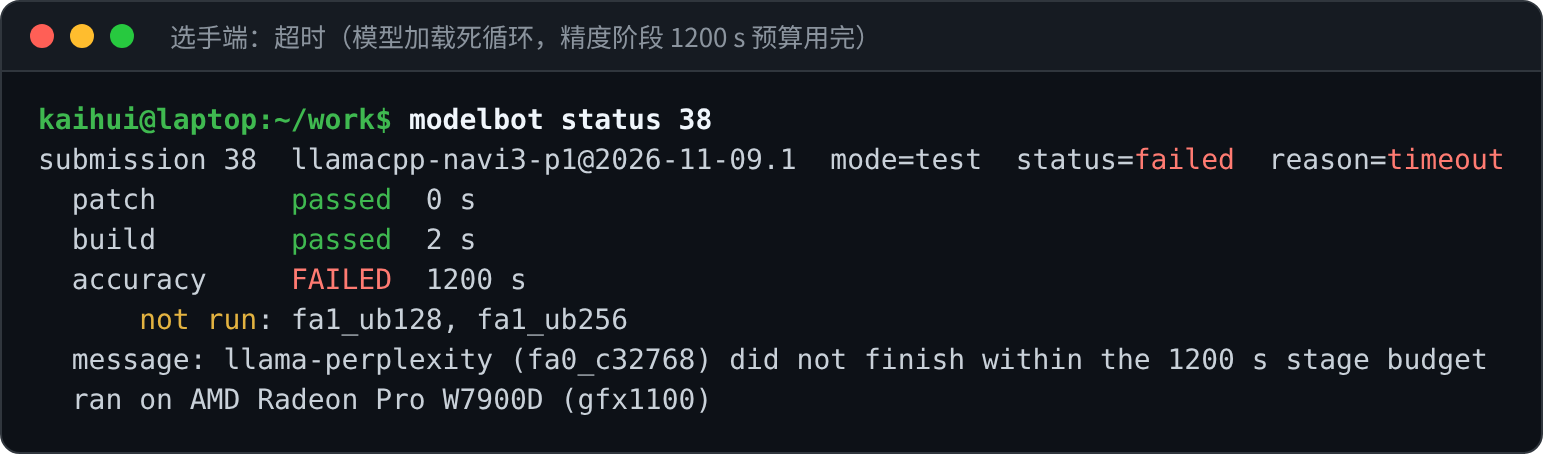
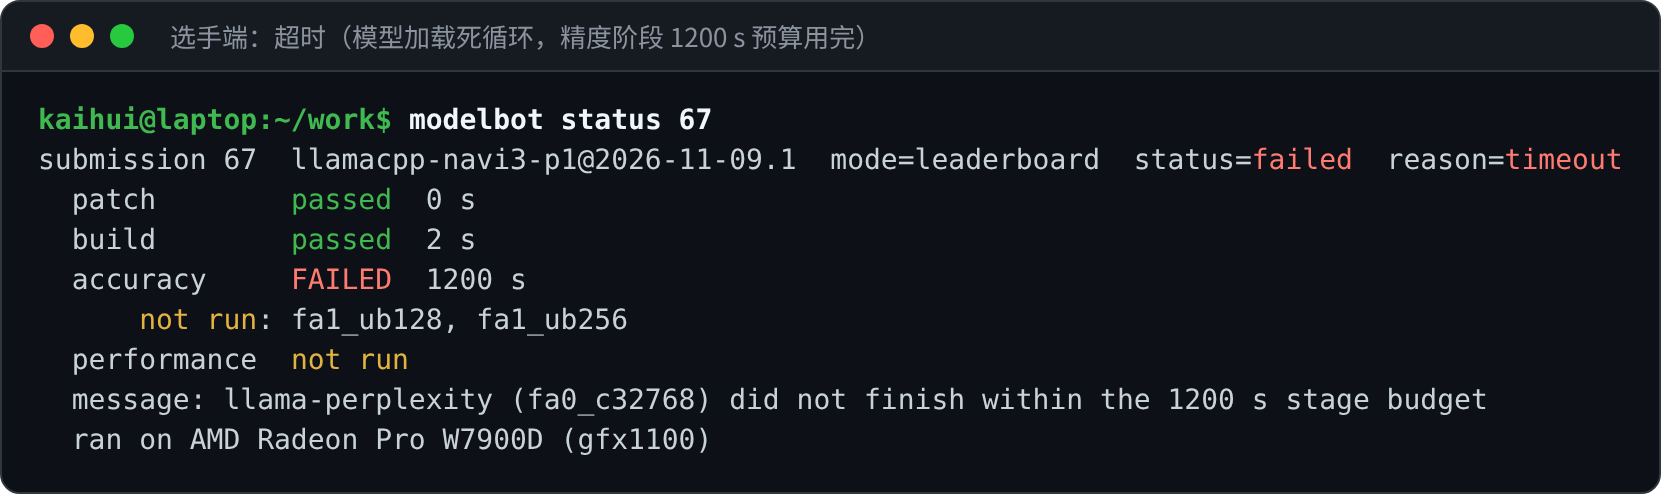
modelbot-cli 0.3.0

diff --git a/modelbot_cli/main.py b/modelbot_cli/main.py
@@ -4,7 +4,7 @@
   modelbot reregister github [--api URL] [--no-browser]
   modelbot whoami
   modelbot problems [NAME]
-  modelbot submit PATCH --problem NAME [--mode test|leaderboard] [--no-wait] [--base DIR]
+  modelbot submit PATCH --problem NAME [--no-wait] [--base DIR]
   modelbot status ID [--wait]
   modelbot list [--problem NAME]
   modelbot logs ID [LOG]
@@ -149,8 +149,8 @@ def cmd_submit(args) -> int:
             print(f"  - {p}")
         return 2
     with patch.open("rb") as f:
-        sub = client.post(f"/submissions/{problem}/{args.mode}", files={"file": (patch.name, f, "text/x-diff")})
-    print(f"submitted {patch.name} to {problem}@{sub['version']} as submission {sub['id']} ({args.mode})")
+        sub = client.post(f"/submissions/{problem}/leaderboard", files={"file": (patch.name, f, "text/x-diff")})
+    print(f"submitted {patch.name} to {problem}@{sub['version']} as submission {sub['id']}")
     if args.no_wait:
         print(status_line(sub))
         return 0
@@ -249,8 +249,6 @@ def main(argv: list[str] | None = None) -> int:
     p = sub.add_parser("submit", help="submit a patch")
     p.add_argument("patch")
     p.add_argument("--problem")
-    p.add_argument("--mode", choices=["test", "leaderboard"], default="leaderboard",
-                   help="test: build + accuracy only; leaderboard: full evaluation, ranked")
     p.add_argument("--no-wait", action="store_true")
     p.add_argument("--base", help="llama.cpp checkout at the base commit, to run `git apply --check` locally")
     p.set_defaults(func=cmd_submit)

diff --git a/modelbot_cli/__init__.py b/modelbot_cli/__init__.py
@@ -1,3 +1,3 @@
 """modelbot command line client."""
 
-__version__ = "0.2.0"
+__version__ = "0.3.0"

diff --git a/README.md b/README.md
@@ -13,13 +13,12 @@
 - [2. 用 GitHub 账号注册](#2-用-github-账号注册)
 - [3. 查看题目](#3-查看题目)
 - [4. 制作补丁](#4-制作补丁)
-- [5. 先用 test 模式验证](#5-先用-test-模式验证编译和精度约-8-分钟)
-- [6. 正式提交：leaderboard 模式](#6-正式提交leaderboard-模式编译精度性能约-14-分钟)
-- [7. 没通过时会看到什么](#7-没通过时会看到什么)
-- [8. 排队、查询与取消](#8-排队查询与取消)
-- [9. 历史提交、日志与补丁](#9-历史提交日志与补丁)
-- [10. 排行榜](#10-排行榜)
-- [11. 状态和结果怎么看](#11-状态和结果怎么看)
+- [5. 提交补丁](#5-提交补丁编译精度性能约-14-分钟)
+- [6. 没通过时会看到什么](#6-没通过时会看到什么)
+- [7. 排队、查询与取消](#7-排队查询与取消)
+- [8. 历史提交、日志与补丁](#8-历史提交日志与补丁)
+- [9. 排行榜](#9-排行榜)
+- [10. 状态和结果怎么看](#10-状态和结果怎么看)
 - [命令速查](#命令速查)
 
 ## 评测流程
@@ -31,9 +30,9 @@
 | 补丁 | `git apply --check` 能打到基准 commit `aa39d7a3` 上；只改 `ggml/`、`src/`；不超过 1 MiB；不含二进制、符号链接或子模块 | 预检直接拒绝（不排队） |
 | 编译 | 在预编译好的源码树上增量编译 `llama-bench`、`llama-perplexity`、`llama-tokenize`（Release，`GGML_HIP=ON`，gfx1100），并检查编译选项没被改动 | `failed` / `build_failed` |
 | 精度 | 三组 `llama-perplexity`（wikitext-2 test，chunk 数固定），每组 PPL 与未修改版本的偏差都在 ±5% 以内 | `succeeded` / `accuracy_failed` |
-| 性能（仅 leaderboard 模式） | 题面 Case 1（3 项）和 Case 2（2 项）的 `llama-bench`。分数是五项 ROCm 吞吐与 Vulkan 基线之比的几何平均，五项都快过 Vulkan 才算 qualified | `succeeded` / `below_vulkan` |
+| 性能 | 题面 Case 1（3 项）和 Case 2（2 项）的 `llama-bench`。分数是五项 ROCm 吞吐与 Vulkan 基线之比的几何平均，五项都快过 Vulkan 才算 qualified | `succeeded` / `below_vulkan` |
 
-评测结果写入服务端并计入排行榜。
+每次提交都完整评测，结果写入服务端并计入排行榜。
 
 ## 1. 安装
 
@@ -95,43 +94,34 @@ git checkout aa39d7a3e145a88202793a89462d65e94a5fc25f
 git diff > ../my.patch
 ```
 
-补丁必须是一个针对基准 commit 的 unified diff（`git diff` 的输出）。提交前 CLI 会在本地检查路径和大小；加上 `--base <llama.cpp 目录>` 时还会在本地跑一次 `git apply --check`。想先走通流程，可以直接提交示例补丁：`modelbot submit examples/noop.patch --mode test`。
+补丁必须是一个针对基准 commit 的 unified diff（`git diff` 的输出）。提交前 CLI 会在本地检查路径和大小；加上 `--base <llama.cpp 目录>` 时还会在本地跑一次 `git apply --check`。想先走通流程，可以直接提交示例补丁：`modelbot submit examples/noop.patch`。它和正式提交一样完整评测、计入排行榜，也占一次提交次数。
 
 越界的补丁在本地预检就被拒绝。即使绕过 CLI 直接调 API，服务端也会做同样的检查：
 
 ![越界补丁被拒绝](docs/images/c04-precheck.png)
 
-## 5. 先用 test 模式验证（编译和精度，约 8 分钟）
+## 5. 提交补丁（编译、精度、性能，约 14 分钟）
 
 ```bash
-modelbot submit my.patch --mode test
+modelbot submit my.patch
 ```
 
 CLI 每 10 秒查询一次状态，状态有变化就打印一行（排队等 GPU、开始评测、出结果），最后打印结果报告：
 
 - 每道关的结果和耗时；
 - 三组 PPL 的实测值、参考值和比值；
+- 五项 benchmark 的吞吐和 Vulkan 基线；
 - 评测用的 GPU。
 
-下图是一个 test 提交的结果报告。`modelbot status <编号>` 随时可以再看这份报告，内容和 `submit` 等到最后打印的一样：
+`modelbot status <编号>` 随时可以再看这份报告，内容和 `submit` 等到最后打印的一样：
 
-![test 模式](docs/images/c06-submit-test.png)
-
-test 模式不跑性能测试，也不进排行榜。进度行里的 `running (build, accuracy, performance)` 是所有模式共用的提示文字。
-
-## 6. 正式提交：leaderboard 模式（编译、精度、性能，约 14 分钟）
-
-```bash
-modelbot submit my.patch          # 默认就是 --mode leaderboard
-```
-
-![leaderboard 模式](docs/images/c08-submit-leaderboard.png)
+![结果报告](docs/images/c08-submit-leaderboard.png)
 
 性能部分每项显示：ROCm 实测吞吐（tokens/s）、Vulkan 基线、两者之比、是否更快，以及多次重复测量的变异系数（cv）。`score` 是五项比值的几何平均，越高越好；`qualified=True` 要求五项都快过 Vulkan。截图里是未修改的代码（`noop.patch` 只加了一行注释），分数为 0.8575，五项中只有 `pp4096-ub256-fa1` 快过 Vulkan（×1.097）。
 
-## 7. 没通过时会看到什么
+## 6. 没通过时会看到什么
 
-编译失败时显示编译器报错；精度超差时显示超差的那组 PPL，后面几组不再跑：
+编译失败时显示编译器报错；精度超差时显示超差的那组 PPL，后面几组 PPL 和性能测试都不再跑：
 
 ![编译失败和精度超差](docs/images/c09-failures.png)
 
@@ -139,19 +129,19 @@ modelbot submit my.patch          # 默认就是 --mode leaderboard
 
 ![超时](docs/images/c10-timeout.png)
 
-## 8. 排队、查询与取消
+## 7. 排队、查询与取消
 
 ```bash
-modelbot submit my.patch --mode test --no-wait   # 提交后立即返回
-modelbot status <编号>                            # 查看状态；--wait 一直等到出结果，--json 输出原始数据
-modelbot cancel <编号>                            # 取消：排队中的直接取消，在评测的会请求停止
+modelbot submit my.patch --no-wait   # 提交后立即返回
+modelbot status <编号>                # 查看状态；--wait 一直等到出结果，--json 输出原始数据
+modelbot cancel <编号>                # 取消：排队中的直接取消，在评测的会请求停止
 ```
 
-每个选手同时只有一个提交在评测，其余的排队；评测卡都在忙时，新提交也要排队。下图里前面还有 4 个提交在等，所以新提交排在第 5 位。取消后状态变为 `cancelled`：
+每个选手同时只有一个提交在评测，其余的排队；评测卡都在忙时，新提交也要排队。下图里同一个选手的上一个提交还在评测、前面还有一个在等，所以新提交排在第 2 位。取消后状态变为 `cancelled`：
 
 ![排队与取消](docs/images/c07-queue-cancel.png)
 
-## 9. 历史提交、日志与补丁
+## 8. 历史提交、日志与补丁
 
 ```bash
 modelbot list                      # 自己的提交（--problem 过滤，--limit 条数）
@@ -171,7 +161,7 @@ modelbot patch <编号> -o out.patch  # 指定保存路径
 
 ![下载补丁](docs/images/c15-patch.png)
 
-## 10. 排行榜
+## 9. 排行榜
 
 ```bash
 modelbot leaderboard               # 或 modelbot leaderboard --json
@@ -185,11 +175,11 @@ modelbot leaderboard               # 或 modelbot leaderboard --json
 
 排名规则：
 
-- 只统计 leaderboard 模式、当前题目版本的提交，每个选手取自己最好的一次；
+- 只统计当前题目版本的提交，每个选手取自己最好的一次；
 - 上表 Qualified 是五项都快过 Vulkan 的选手，下表是精度通过但还没全部快过 Vulkan 的选手（已经上了上表的不会再出现在下表）；
 - 按分数从高到低排；分数相同看平均 cv（越稳定越靠前），再相同看提交时间。
 
-## 11. 状态和结果怎么看
+## 10. 状态和结果怎么看
 
 `status` 表示评测流程走到哪里，`reason` 才是评测结论：
 
@@ -205,7 +195,7 @@ modelbot leaderboard               # 或 modelbot leaderboard --json
 
 | reason | 含义 |
 |---|---|
-| `ok` | test 模式：编译和精度都通过；leaderboard 模式：五项都快过 Vulkan（qualified） |
+| `ok` | 精度通过，五项都快过 Vulkan（qualified） |
 | `below_vulkan` | 精度通过、性能已测，但至少有一项没快过 Vulkan，进入"精度通过"榜 |
 | `accuracy_failed` | 至少一组 PPL 超出 ±5% |
 | `build_failed` / `build_timeout` / `build_flags_changed` | 编译失败 / 编译超时 / 补丁改动了规定的编译选项 |
@@ -213,9 +203,9 @@ modelbot leaderboard               # 或 modelbot leaderboard --json
 | `forbidden_path` / `patch_apply_failed` / `binary_patch` / `empty_patch` / `patch_too_large` | 补丁不合格（通常在提交时就被拒绝，不会排队） |
 | 其他（如 `run_not_found`、`no_result`、`attempt_timeout`） | 基础设施错误，见上表的 `error` |
 
-CLI 退出码：0 表示通过（test 模式编译和精度都通过；leaderboard 模式性能也测完了），1 表示没通过，2 表示本地预检失败，3 表示 API 报错（例如超过提交次数限制、暂停提交、截止时间已过）。
+CLI 退出码：0 表示精度通过、性能也测完了（不论是否快过 Vulkan），1 表示没通过，2 表示本地预检失败，3 表示 API 报错（例如超过提交次数限制、暂停提交、截止时间已过）。
 
-提交限制：默认每人每小时 test 12 次、leaderboard 6 次，`error` 不计数；截止时间见 `modelbot problems`。
+提交限制：默认每人每小时 6 次，`error` 不计数；截止时间见 `modelbot problems`。
 
 ## 命令速查
 
@@ -225,7 +215,7 @@ CLI 退出码：0 表示通过（test 模式编译和精度都通过；leaderboa
 | `modelbot reregister github [--no-browser]` | 给已注册的账号换一个新 token（旧 token 失效） |
 | `modelbot whoami` | 查看当前 token 对应的账号 |
 | `modelbot problems [NAME]` | 题目列表 / 详情 |
-| `modelbot submit PATCH [--mode test\|leaderboard] [--no-wait] [--base DIR]` | 提交补丁（默认 leaderboard 模式，等待结果） |
+| `modelbot submit PATCH [--no-wait] [--base DIR]` | 提交补丁（默认等到出结果） |
 | `modelbot status ID [--wait] [--json]` | 查看提交 |
 | `modelbot list [--problem NAME] [--limit N]` | 自己的提交列表 |
 | `modelbot logs ID [LOG]` | 日志列表 / 打印日志 |
